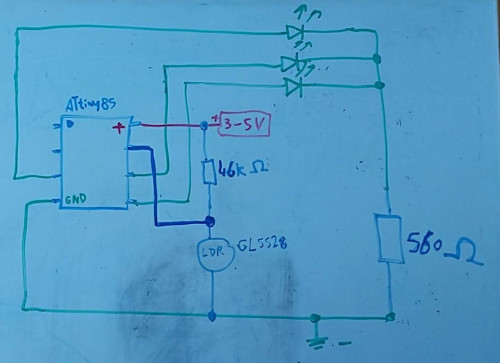
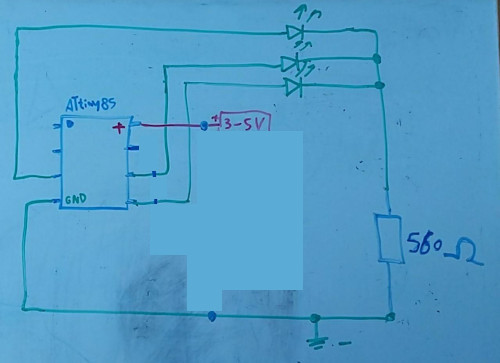
without ldr, but with vcc check

Changed region(s): [[0.27, 0.3636, 0.6, 0.8788]]

diff --git a/README.md b/README.md
@@ -1,6 +1,6 @@
 # ATtiny85 Candle
 
-LDR check sun. candle starts only at night/dark.
+candle starts only if lipo is full.
 
 ## Circuit
 
